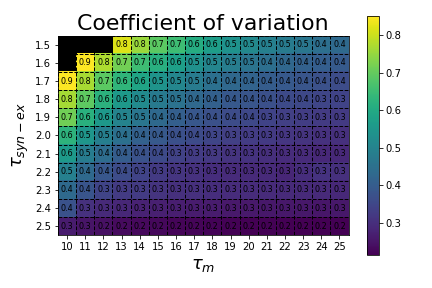
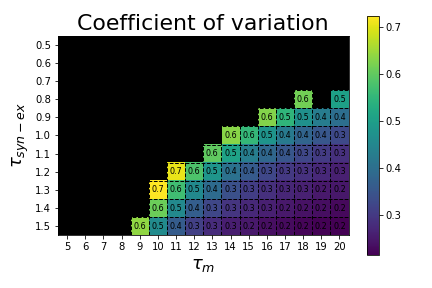
updated

diff --git a/simulation/setup.py b/simulation/setup.py
@@ -17,9 +17,9 @@ def setup():
     ## General parameters
     settings  = {
         'rec_start'  :    200.,                                                # start point for data recording
-        'rec_stop'   :   2000.,                                                # end points for data recording
+        'rec_stop'   :   1000.,                                                # end points for data recording
         'record_to'  :'memory',
-        'sim_time'   :   2000.,                                                # Time the network is simulated in ms
+        'sim_time'   :   1000.,                                                # Time the network is simulated in ms
         'calc_lfp'   :   False,                                                # Flag to use LFP approximation procedure
         'verbose'    :    True,                                                # Flag for verbose function output
         'K_scale'    :      1.,                                                # Scaling factor for connections
@@ -40,48 +40,24 @@ def setup():
         'th_stop'    :    510.,
         'num_neurons': np.array([400, 100, 400, 100]),
         'cell_params'  : [{
-                            'V_m'        :  -70.,
-                            'V_th'       :  -50.,
-                            'V_reset'    :  -70.,
-                            'C_m'        :  250.,
-                            't_ref'      :    2.,
                             'tau_syn_ex' :   1.4,
-                            'tau_syn_in' :   .25,
-                            'E_L'        : -65.0,
-                            'tau_m'      :  14.0,
+                            'tau_syn_in' :   0.5,
+                            'tau_m'      :  19.0
                         },
                         {
-                            'V_m'        :  -70.,
-                            'V_th'       :  -49.,
-                            'V_reset'    :  -70.,
-                            'C_m'        :  250.,
-                            't_ref'      :    2.,
-                            'tau_syn_ex' :   0.9,
-                            'tau_syn_in' :   .25,
-                            'E_L'        : -65.0,
-                            'tau_m'      :  23.0,
+                            'tau_syn_ex' :    1.,
+                            'tau_syn_in' :   0.5,
+                            'tau_m'      :  19.0
                         },
                          {
-                            'V_m'        :  -70.,
-                            'V_th'       :  -50.,
-                            'V_reset'    :  -70.,
-                            'C_m'        :  250.,
-                            't_ref'      :    2.,
-                            'tau_syn_ex' :   1.3,
-                            'tau_syn_in' :   .25,
-                            'E_L'        : -65.0,
-                            'tau_m'      :  13.0,
+                            'tau_syn_ex' :   1.1,
+                            'tau_syn_in' :   0.5,
+                            'tau_m'      :  13.0
                         },
                         {
-                            'V_m'        :  -70.,
-                            'V_th'       :  -49.,
-                            'V_reset'    :  -70.,
-                            'C_m'        :  250.,
-                            't_ref'      :    2.,
-                            'tau_syn_ex' :   0.9,
-                            'tau_syn_in' :   .25,
-                            'E_L'        : -65.0,
-                            'tau_m'      :  23.0,
+                            'tau_syn_ex' :    1.,
+                            'tau_syn_in' :   0.5,
+                            'tau_m'      :  15.0
                         }],
         
         'pop_name'   : ['L1_E', 'L1_I',
@@ -112,24 +88,24 @@ def setup():
         'second_net' :   False,
         'num_neurons': np.array([400, 100, 400, 100]),
         'cell_params'  : [{
-                            'tau_syn_ex' :   2.0,
+                            'tau_syn_ex' :   1.2,
+                            'tau_syn_in' :   0.5,
+                            'tau_m'      :  14.0
+                        },
+                        {
+                            'tau_syn_ex' :   0.5,
                             'tau_syn_in' :   0.5,
                             'tau_m'      :  25.0
                         },
-                        {
-                            'tau_syn_ex' :    1.,
-                            'tau_syn_in' :   0.5,
-                            'tau_m'      :  23.0
-                        },
                          {
-                            'tau_syn_ex' :   1.8,
+                            'tau_syn_ex' :   1.1,
                             'tau_syn_in' :   0.5,
-                            'tau_m'      :  17.0
+                            'tau_m'      :  14.0
                         },
                         {
-                            'tau_syn_ex' :    1.,
+                            'tau_syn_ex' :   0.5,
                             'tau_syn_in' :   0.5,
-                            'tau_m'      :  23.0
+                            'tau_m'      :  25.0
                         }],
         
         'pop_name'   : ['L1_E', 'L1_I',
@@ -195,8 +171,8 @@ def setup():
 
     params['ext_rate'] = 30.0
     params['ext_nodes']   = np.array(
-        [100, 0, 
-         100, 0])
+        [100, 60, 
+         100, 60])
     
     weight = syn_strength
     

diff --git a/simulation/functions.py b/simulation/functions.py
@@ -150,7 +150,7 @@ class Network:
                 
             weight = nest.math.redraw(nest.random.normal(
                 mean = syn_specs[source,target],
-                std=max(abs(syn_specs[source,target]*0.1), 1e-10)),
+                std=0.1),
                 min=w_min,
                 max=w_max)
             delay = nest.math.redraw(nest.random.normal(

diff --git a/simulation/opt_parameter_exploration.py b/simulation/opt_parameter_exploration.py
@@ -38,8 +38,8 @@ opt_results = {
 ## Change values and run the function with different parameters
 iteration = 1
 
-tau_m_range = range(10,26,1)
-tau_syn_ex_range = np.arange(1.5, 2.6, 0.1)
+tau_m_range = range(5,21,1)
+tau_syn_ex_range = np.arange(0.5, 1.6, 0.1)
 
 
 total_iter = len(tau_m_range) * len(tau_syn_ex_range)

diff --git a/simulation/run.py b/simulation/run.py
@@ -10,8 +10,8 @@ import pandas as pd
 import os
 
 ## Disable this if you run any kind of opt_ script
-# from setup import setup
-# setup()
+from setup import setup
+setup()
 
 ###############################################################################
 ## Load config created by setup().
